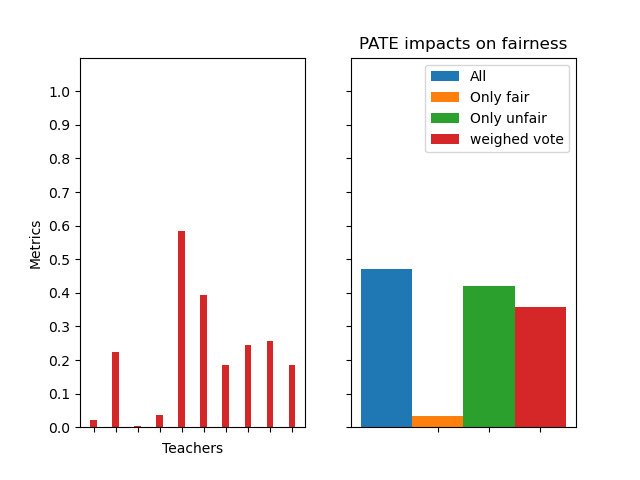
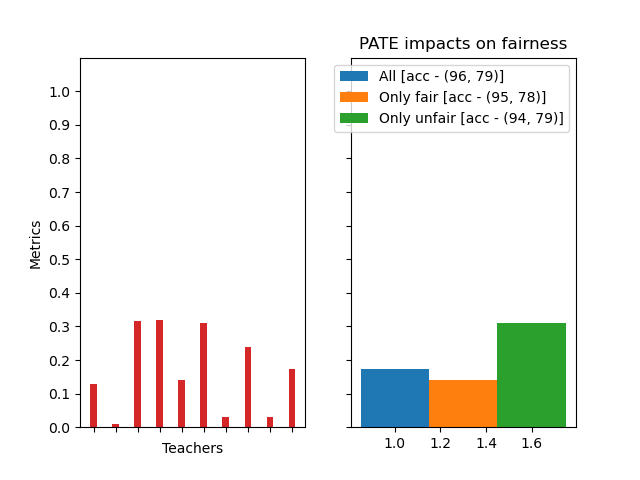
45 teachers

diff --git a/src/fairness_impact_eval.py b/src/fairness_impact_eval.py
@@ -38,8 +38,8 @@ set_metrics(eod)
 
 nb_fair = [x < 0.1 for x in eod].count(True)
 
-if abs(nb_fair_tchrs - nb_fair) > 2:
-    exit(1)
+""" if abs(nb_fair_tchrs - nb_fair) > 2:
+    exit(1) """
 if "_bis" in dataset:
     name = dataset + "_" + str(nb_fair) + "_fair"+ ".png"
 else:
@@ -65,7 +65,7 @@ ax1.set_ylim([0,1.1])
 ax1.set_xlabel("Teachers")
 ax1.set_ylabel("Metrics")
 
-eods = []
+#eods = []
 for cf in confs:
     # setting conf
     if cf != "All" and (nb_fair == 0 or nb_fair == nb_teachers):
@@ -73,24 +73,25 @@ for cf in confs:
     print(f'Training  {cf} teachers')
     if cf == "All":
         aggregator = plurality
+        x = 1
     elif cf == "Only fair":
         aggregator = only_fair
+        x =1 + b_width
     else:
         if nb_fair == nb_teachers:
             continue
         aggregator = only_unfair
+        x =1 + 2*b_width
     y_train = np.asarray(aggregator(x_train))
     yhat_test = np.asarray(aggregator(x_test))
     st_model = train_student(x_train, y_train, verbose=False)
+    ev1, ev2 = eval_student_model(st_model, x_test, y_test, yhat_test)
     st_stats = fairness(st_model, x_test, yhat_test, s_test)
-    eods.append(st_stats["EOD"])
+    #ax2.plot([0, 1], [ev2[1]])
+    ax2.bar([x], st_stats["EOD"], width = b_width, color=colors[color_index],label=f"{cf} [acc - {int(ev1[1]*100), int(ev2[1]*100)}]")
+    color_index += 1
 
-
-ax2.bar([1], eods[0], width = b_width, color=colors[0],label="All")
-if len(eods) > 1:
-    ax2.bar([1 + b_width], eods[1], width = b_width, color=colors[1],label="Only fair")
-    ax2.bar([1 + 2*b_width], eods[2], width = b_width, color=colors[2],label="Only unfair")
-
+""" 
 aggregator = weighed_vote
 y_train = np.asarray(aggregator(x_train))
 yhat_test = np.asarray(aggregator(x_test))
@@ -99,12 +100,12 @@ st_model = train_student(x_train, y_train, verbose=False)
 st_stats = fairness(st_model, x_test, yhat_test, s_test)
 
 ax2.bar([1 + 3*b_width], st_stats["EOD"], width = b_width, color=colors[3], label="weighed vote")
-ax2.set_xticks([1 + i*b_width for i in range(1, 4)], ['' for _ in range(1, len(eods) + 1)])
+"""
+#ax2.set_xticks([1 + b_width], ['']) 
+
 plt.title(f"PATE impacts on fairness")
 plt.legend()
 path = "../img/archive_" + str(nb_teachers) + "/"
 plt.savefig(path+name)
-
-
 
 

diff --git a/src/app.py b/src/app.py
@@ -87,8 +87,8 @@ while True:
         y_train = np.asarray(aggregator(x_train))
         st_model = train_student(x_train, y_train)
         yhat_test = np.asarray(aggregator(x_test))
-        y_pred = eval_student_model(st_model, x_test, y_test, yhat_test)
-        st_stats = fairness(st_model, x_test, y_pred, s_test)
+        eval1, eval2 = eval_student_model(st_model, x_test, y_test, yhat_test)
+        st_stats = fairness(st_model, x_test, yhat_test, s_test)
         student_trained = True
     elif action==3:
         nb_fair_tchrs = int(input("Enter number of fair teachers >>> "))

diff --git a/src/teachers.py b/src/teachers.py
@@ -49,7 +49,7 @@ def train_teachers(subsets, nb_tchrs, nb_epochs=100):
 def wrapper(args):
     return train_teacher(*args)
 
-def train_teacher(subset, index, nb_epochs=60):
+def train_teacher(subset, index, nb_epochs=100):
     x_train, _, y_train, _, _, _ = subset
     x_train, y_train = np.array(x_train), np.array(y_train)
 

diff --git a/src/student.py b/src/student.py
@@ -46,7 +46,7 @@ def eval_student_model(model, x_test, true_y_test, y_test, verbose=True):
     eval2 = model.evaluate(x_test, true_y_test)
     if verbose:
         print(f"**** Results \n\t-loss : {eval2[0]}\n\t-accuracy : {eval2[1]}")
-    return y_test
+    return eval1, eval2
     
 
 
